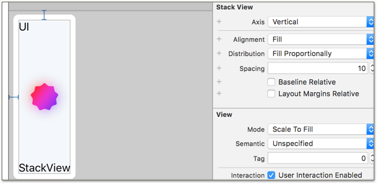
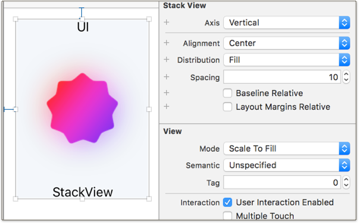
Site updated: 2015-11-14 23:52:31

diff --git a/index.html b/index.html
@@ -244,6 +244,8 @@
 <p><img src="/img/a8.png" alt=""></p>
 <p>对这个小的stack view 稍作调整。</p>
 <p><img src="/img/a9.png" alt=""></p>
+<p>运行查看：</p>
+<p><img src="/img/a10.png" alt=""></p>
 <ul>
 <li>代码中的创建使用</li>
 </ul>

diff --git a/css/main.css b/css/main.css
@@ -1058,7 +1058,7 @@ body {
   width: 4px;
   height: 4px;
   border-radius: 50%;
-  background: #ff667c;
+  background: #ff6eff;
 }
 .sidebar-nav {
   margin: 0;
